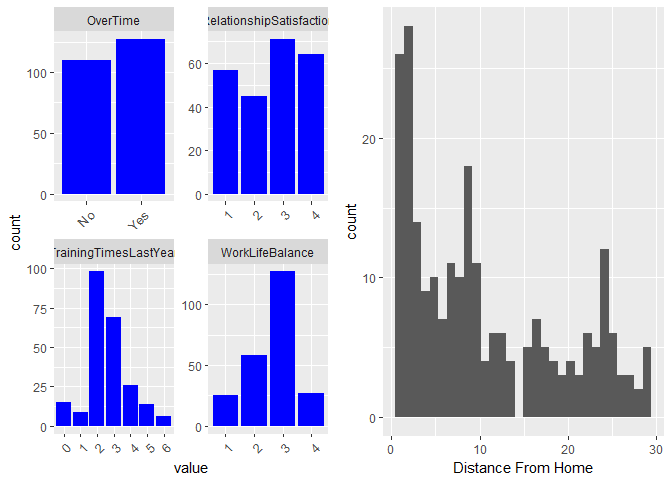
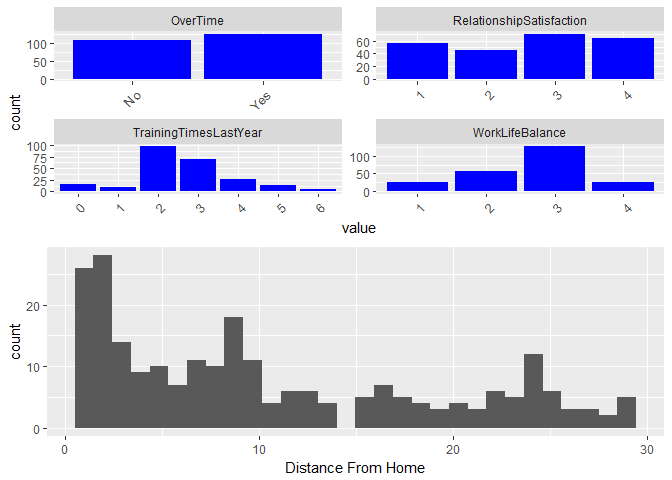
Add multiplot function col

diff --git a/CaseStudy2.md b/CaseStudy2.md
@@ -179,7 +179,7 @@ unit4_plot1 <- attrition_data[uni_4_cols] %>%
 
 ``` r
 unit4_plot2 <- qplot(attrition_data$DistanceFromHome, geom="histogram")  + xlab("Distance From Home")
-multiplot(unit4_plot1, unit4_plot2, cols = 2)
+multiplot(unit4_plot1, unit4_plot2)
 ```
 
     Loading required package: grid
